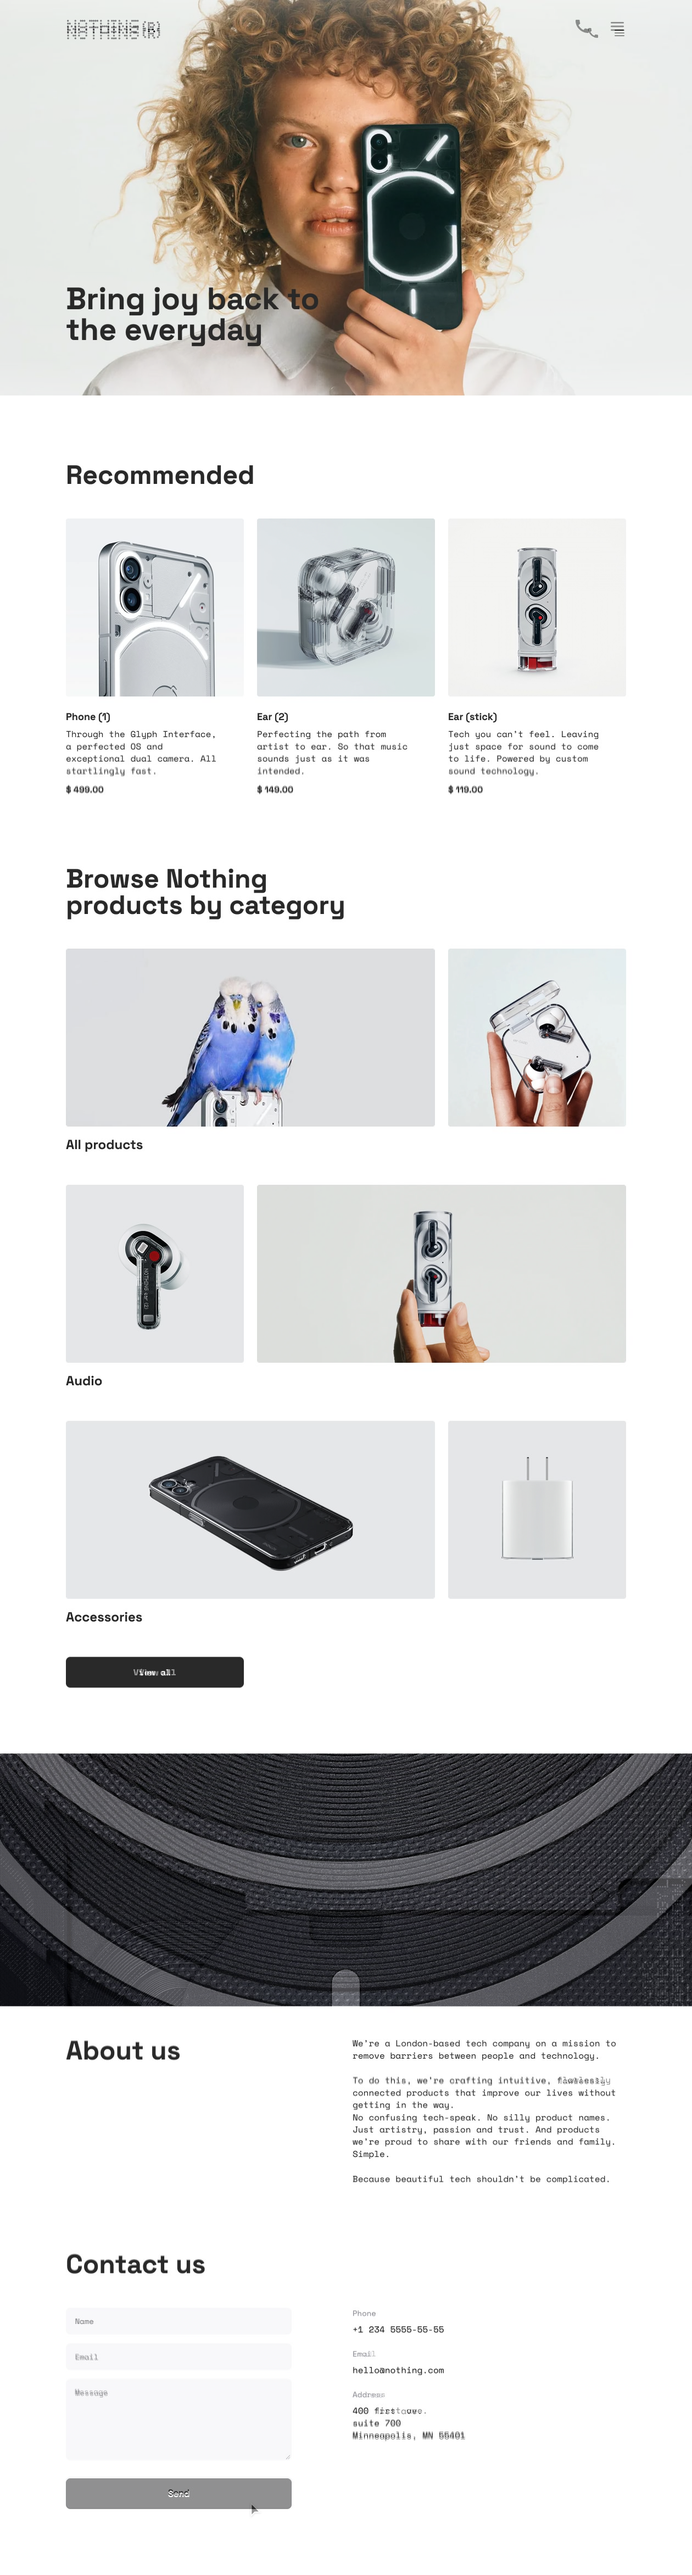
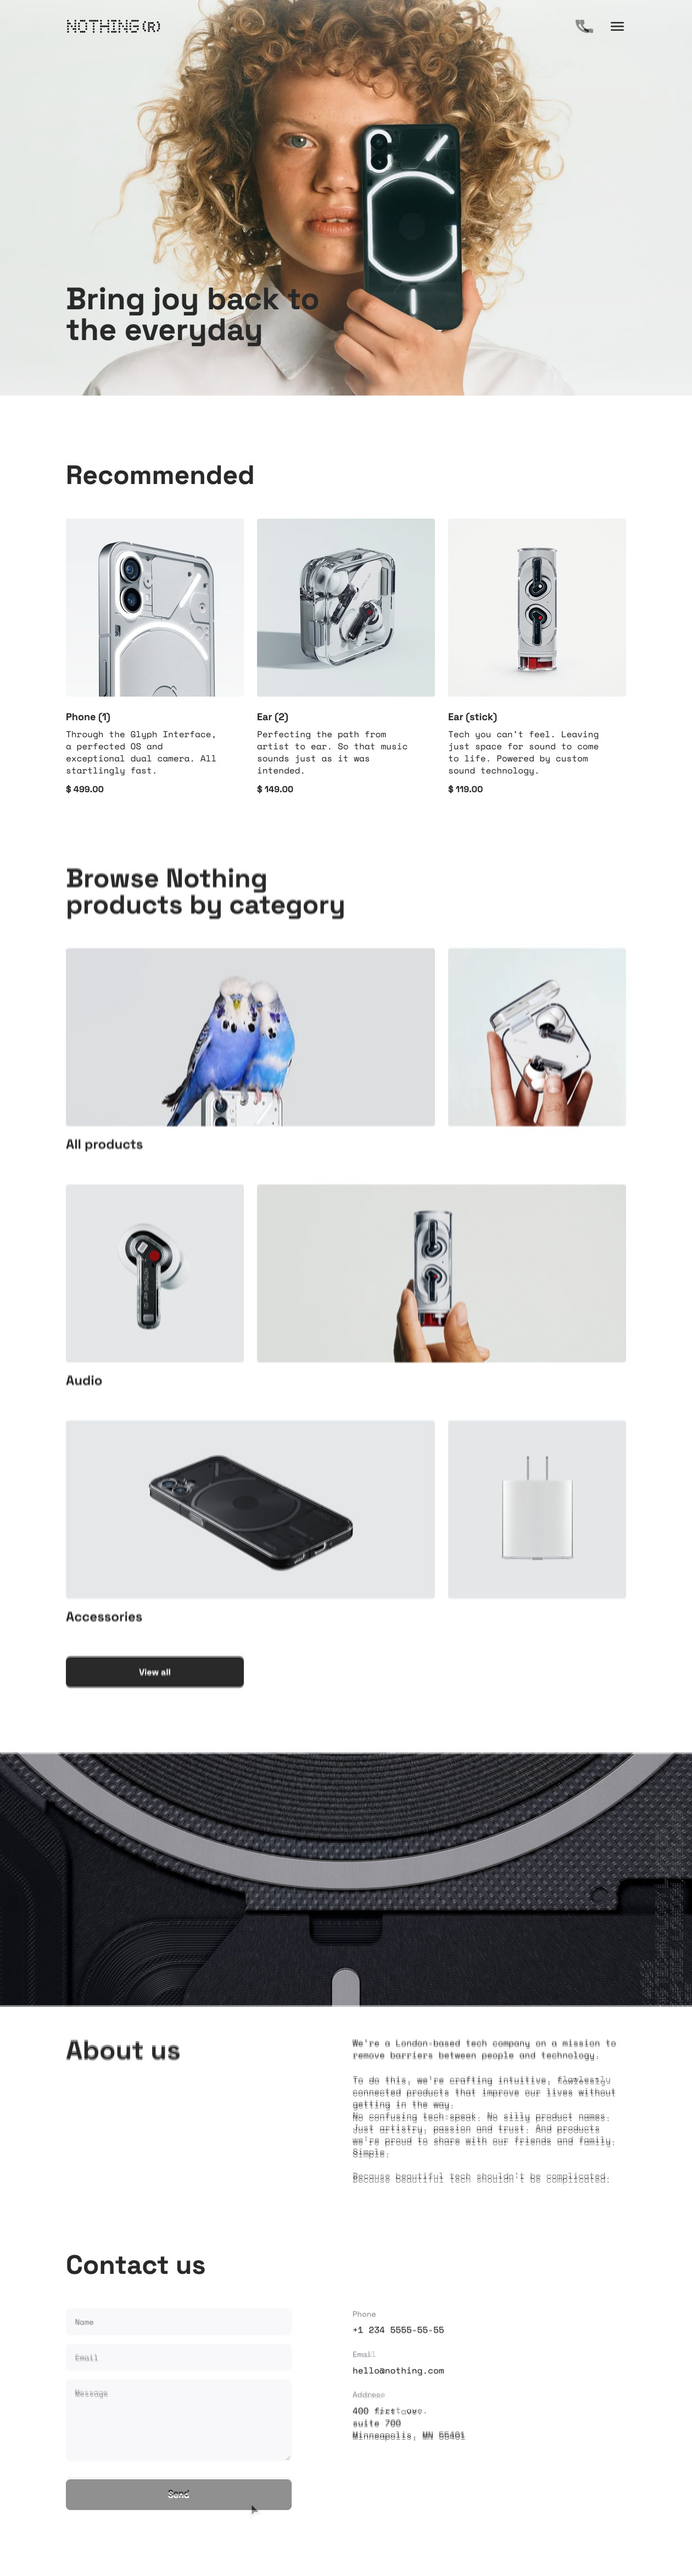
docs: update pixel perfect comparisons

diff --git a/README.md b/README.md
@@ -51,7 +51,7 @@ src/styles/
 
 Елемент `o-grid__item--full` займає всю сітку. Батьківські BEM-елементи секцій задають `grid-column` через мікси: фотографії галереї займають по одній колонці на мобільному, 4 + 2 на планшеті та 8 + 4 на десктопі. Для візуальної перевірки можна додати модифікатор `o-grid--debug` до сітки: він підсвітить колонки.
 
-Геометрію перевірено в браузері на 320, 375, 744, 1000, 1260 та 1920 px: горизонтального переповнення немає, а на 1260 px елементи `span 8` і `span 4` мають ширину 672 і 324 px відповідно. Ключові координати звірено з Figma; повне накладання для pixel perfect — окреме завдання 5.
+Геометрію перевірено в браузері на 320, 375, 744, 1000, 1260 та 1920 px: горизонтального переповнення немає, а на 1260 px елементи `span 8` і `span 4` мають ширину 672 і 324 px відповідно. Накладання на фрейми Figma наведено нижче.
 
 ## Поведінка сторінки
 
@@ -76,7 +76,7 @@ src/styles/
 
 ## Перевірка накладанням
 
-Нижче — накладання експорту відповідного фрейму Figma і скриншота production-збірки з однаковою прозорістю. Двійні контури показують розбіжності: зокрема, залишаються відмінності в заголовках, тексті та вертикальних відступах. Вимогу відхилення до 5 px ще не підтверджено. Курсор і стан наведення кнопки в експорті макета також видно на накладанні.
+Нижче — накладання експорту відповідного фрейму Figma і скриншота production-збірки з однаковою прозорістю. Сторінку звірено на ширинах 320, 744 і 1260 px: виправлено кадрування зображень, заголовки, шапку, банер та відступи контактної форми. Висота сторінки відрізняється від макета відповідно на −2, −2 та +3 px; це не є автоматичним вимірюванням відхилення кожного елемента. Двійні контури також можуть виникати через згладжування шрифтів і стиснення зображень. Курсор і стан наведення кнопки присутні в експорті Figma.
 
 ![Накладання Figma та сторінки на 320 px](docs/pixel-perfect/final-overlay-320.png)
 
